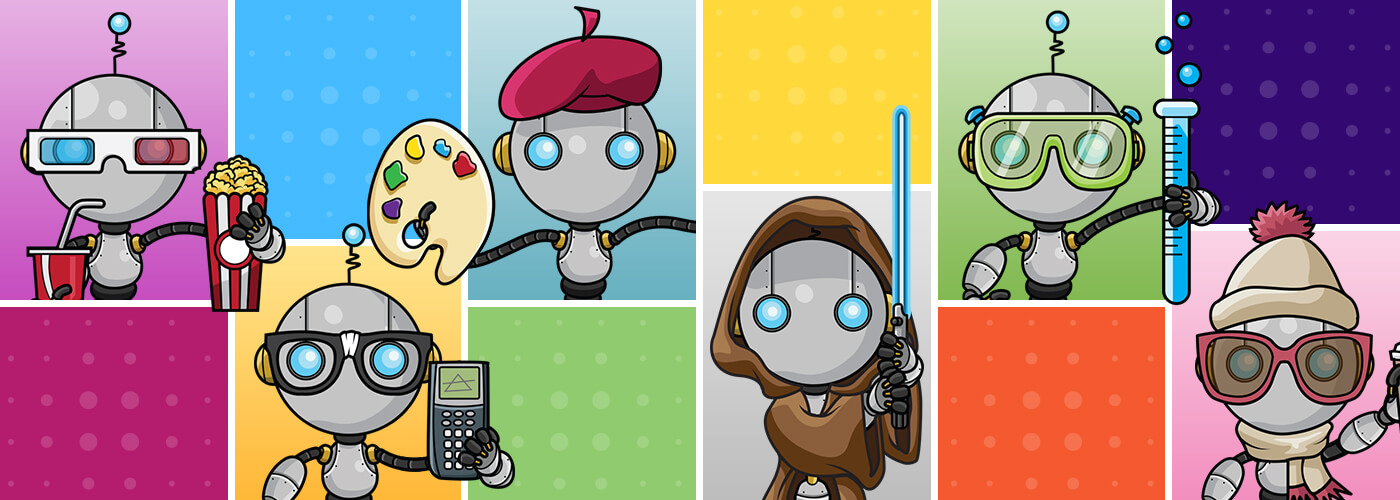
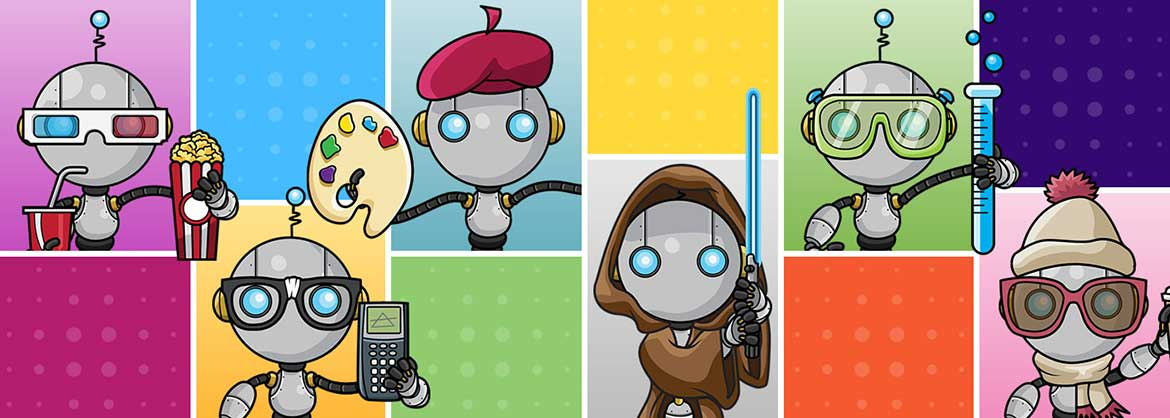
Fixed Team page. Removed Zen

diff --git a/assets/styles/css/custom.css b/assets/styles/css/custom.css
@@ -340,7 +340,7 @@ body.whitepage .top-bar .tert ul li.partner:hover a, body.whitepage .top-bar .te
 }
 @media only screen and (max-width: 700px) {
   .whiteBG2,
-.whiteBG {
+  .whiteBG {
     padding: 15px !important;
     border-radius: unset;
     margin-top: 0;
@@ -355,7 +355,7 @@ body.whitepage .top-bar .tert ul li.partner:hover a, body.whitepage .top-bar .te
 }
 @media only screen and (max-width: 700px) {
   .whiteBG2 h4,
-.whiteBG h4 {
+  .whiteBG h4 {
     font-size: 25px;
   }
 }
@@ -376,7 +376,7 @@ body.whitepage .top-bar .tert ul li.partner:hover a, body.whitepage .top-bar .te
 }
 @media only screen and (max-width: 700px) {
   .whiteBG2 h1,
-.whiteBG h1 {
+  .whiteBG h1 {
     margin-bottom: -15px;
   }
 }
@@ -515,11 +515,11 @@ img.techfab {
 }
 @media only screen and (max-width: 768px) {
   .aboutPage .text-left,
-.aboutPage .text-right {
+  .aboutPage .text-right {
     text-align: center;
   }
   .aboutPage .text-left img,
-.aboutPage .text-right img {
+  .aboutPage .text-right img {
     width: 100%;
   }
 }
@@ -683,7 +683,9 @@ img.techfab {
 ###################### 
 */
 .teamPage .members span {
-  font-size: 9px;
+  font-size: 11px;
+  display: block;
+  margin-top: 6px;
 }
 @media only screen and (max-width: 768px) {
   .teamPage .members span {

diff --git a/assets/styles/scss/_interior.scss b/assets/styles/scss/_interior.scss
@@ -428,7 +428,9 @@ img.techfab {
 .teamPage {
     .members {
         span {
-            font-size: 9px;
+            font-size: 11px;
+            display:block;
+            margin-top:6px;
 
             @media only screen and (max-width: 768px) {
                 font-size: 16px;
